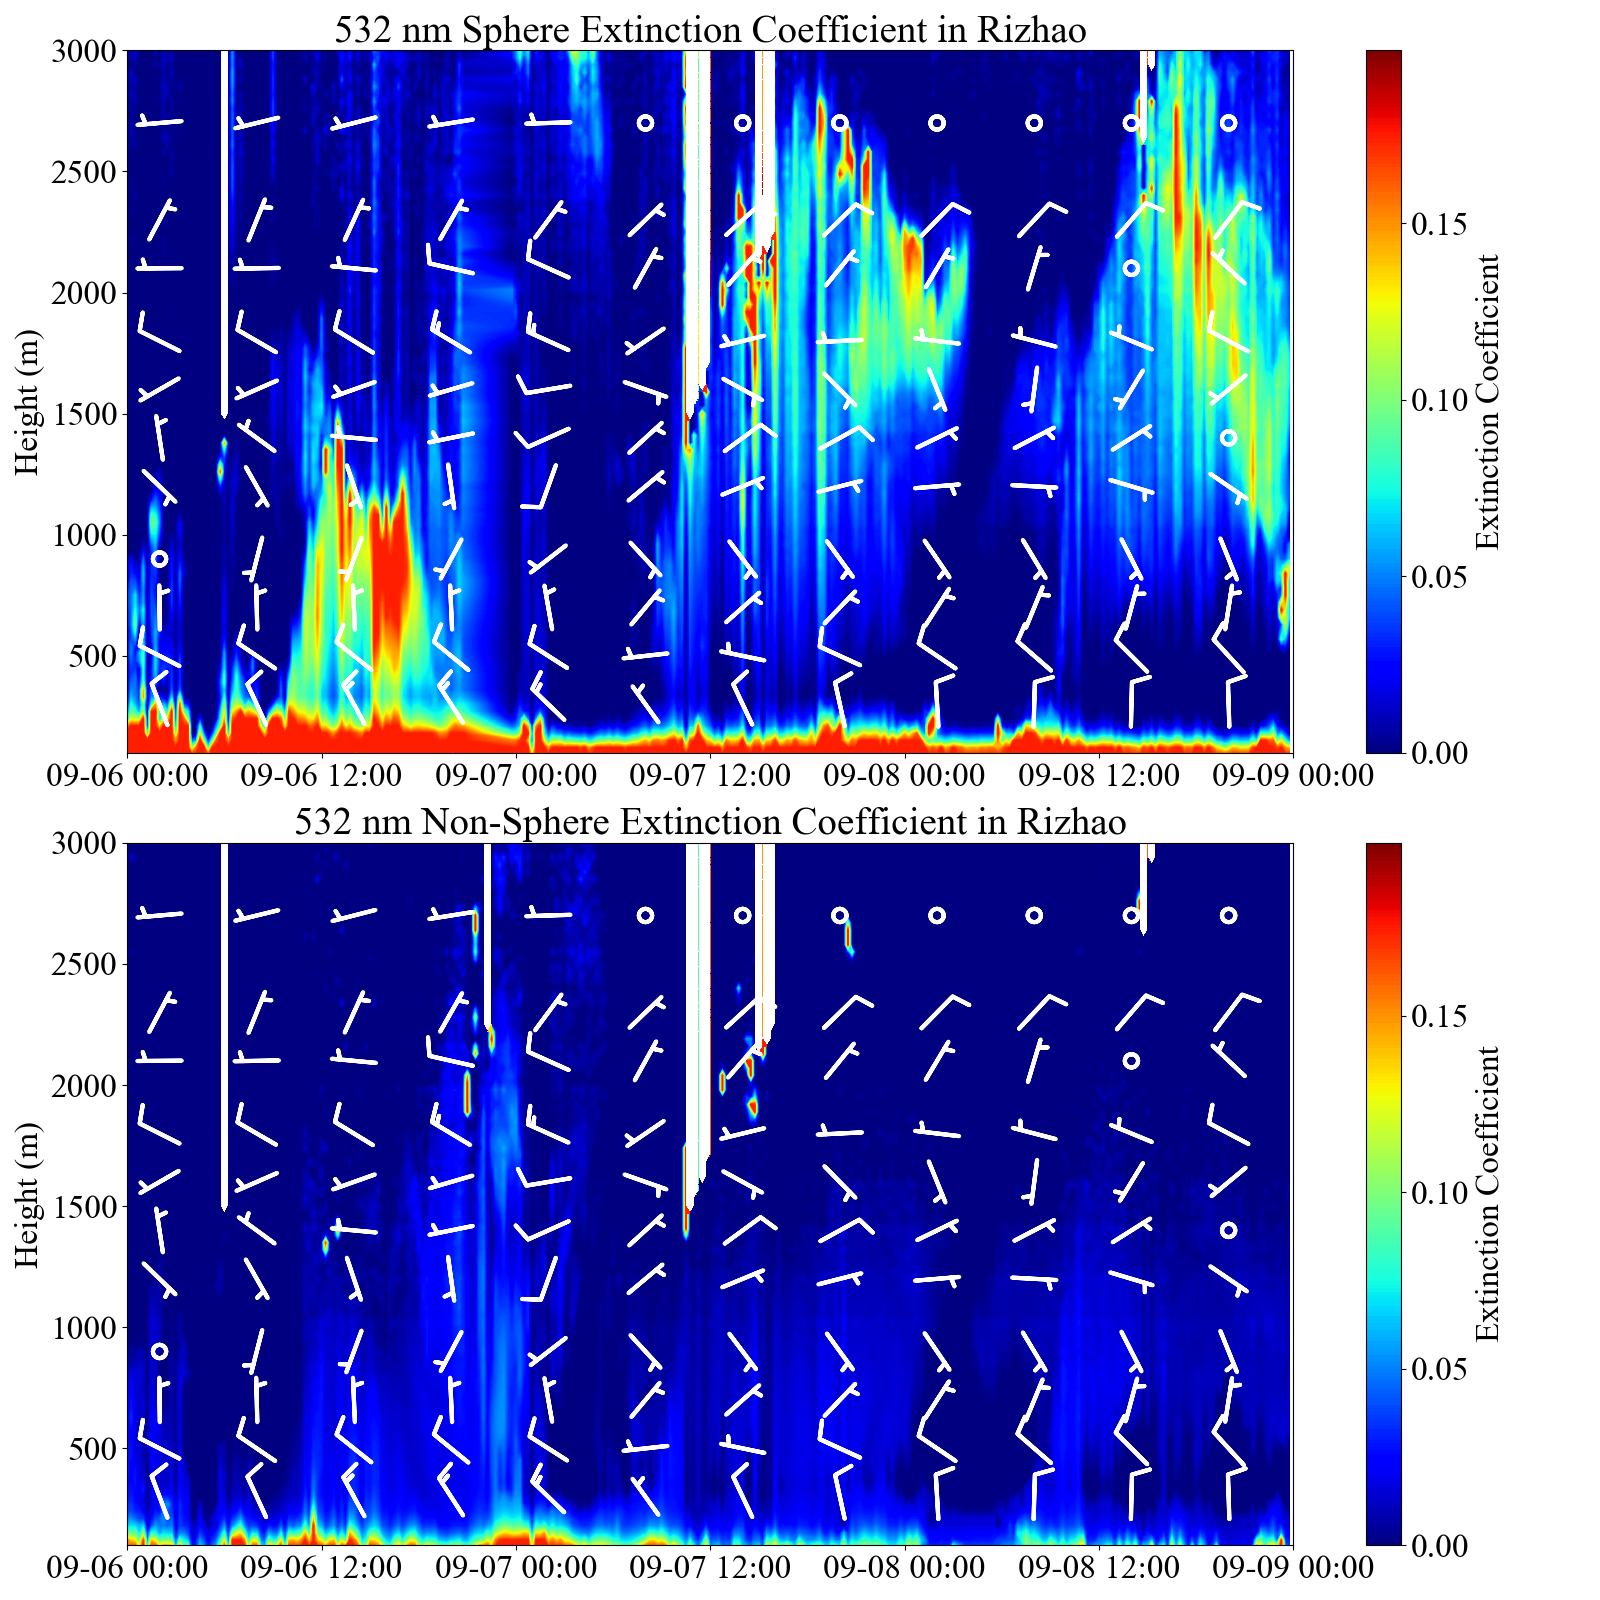
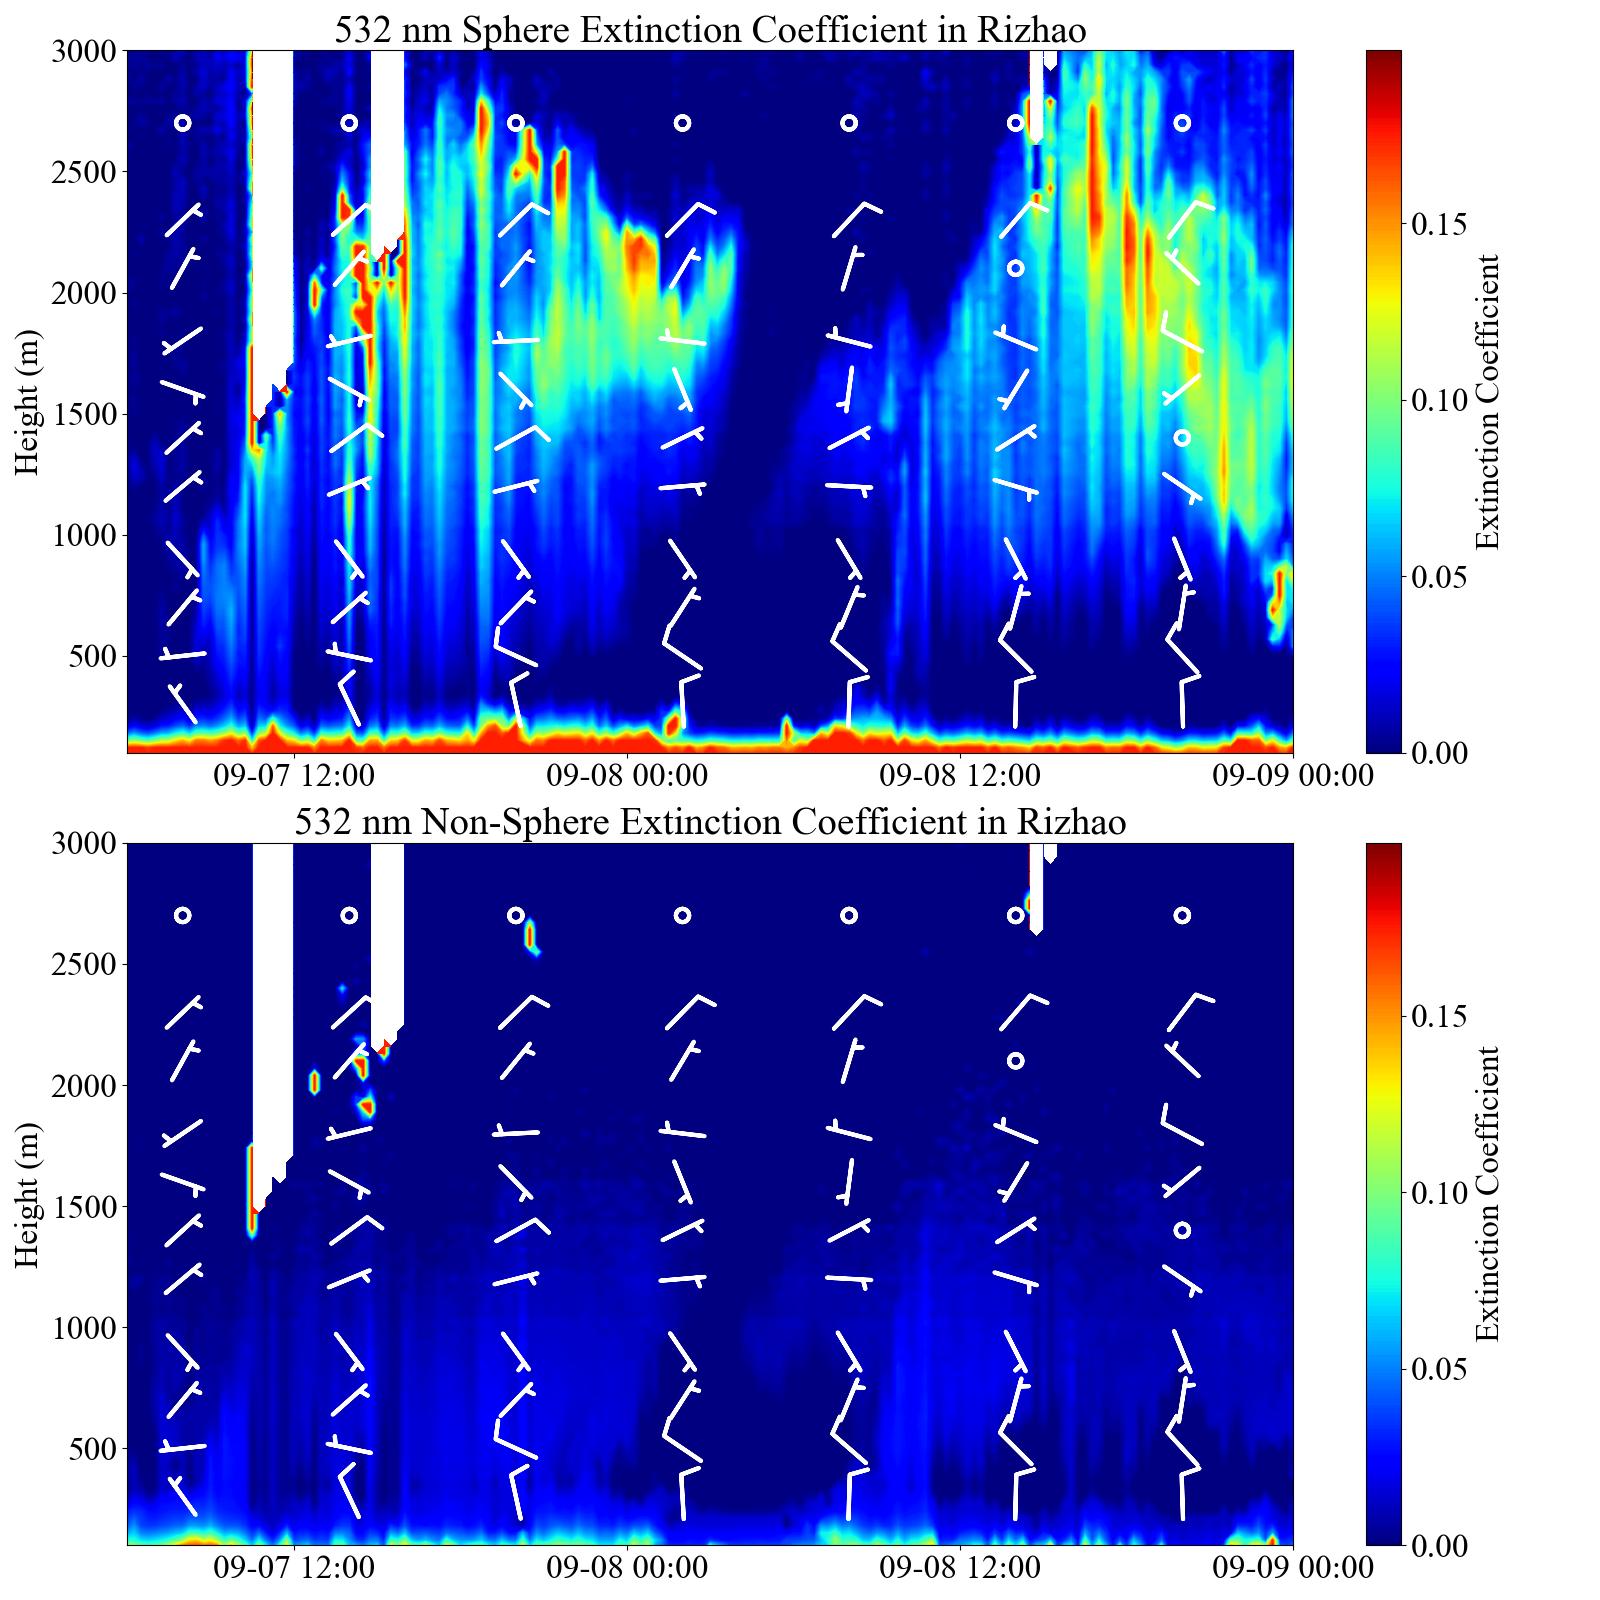
Add files

diff --git a/episodes/Lidar-plot-2018-09-06.py b/episodes/Lidar-plot-2018-09-06.py
@@ -167,7 +167,7 @@ minval,maxval=0, 0.2
 cs = plt.contourf(X,Y,Zdata, np.arange(minval, maxval, 0.001),cmap=plt.cm.get_cmap('jet'))#norm=norm, offset=-2, shrink=.92
 #plt.quiver(X4, Y4, U, V,color='white', width=0.004,scale=150)     
 plt.barbs(X4, Y4, U, V,barbcolor='white', flagcolor='r',linewidth=3, length=8, pivot='middle')      
-dateS=datetime(2018, 9, 6, 0, 00)
+dateS=datetime(2018, 9, 7, 6, 00)
 dateE=datetime(2018, 9, 9, 0, 00)
 plt.xlim(dateS, dateE)                                                                                                  
 #设置时间标签显示格式
